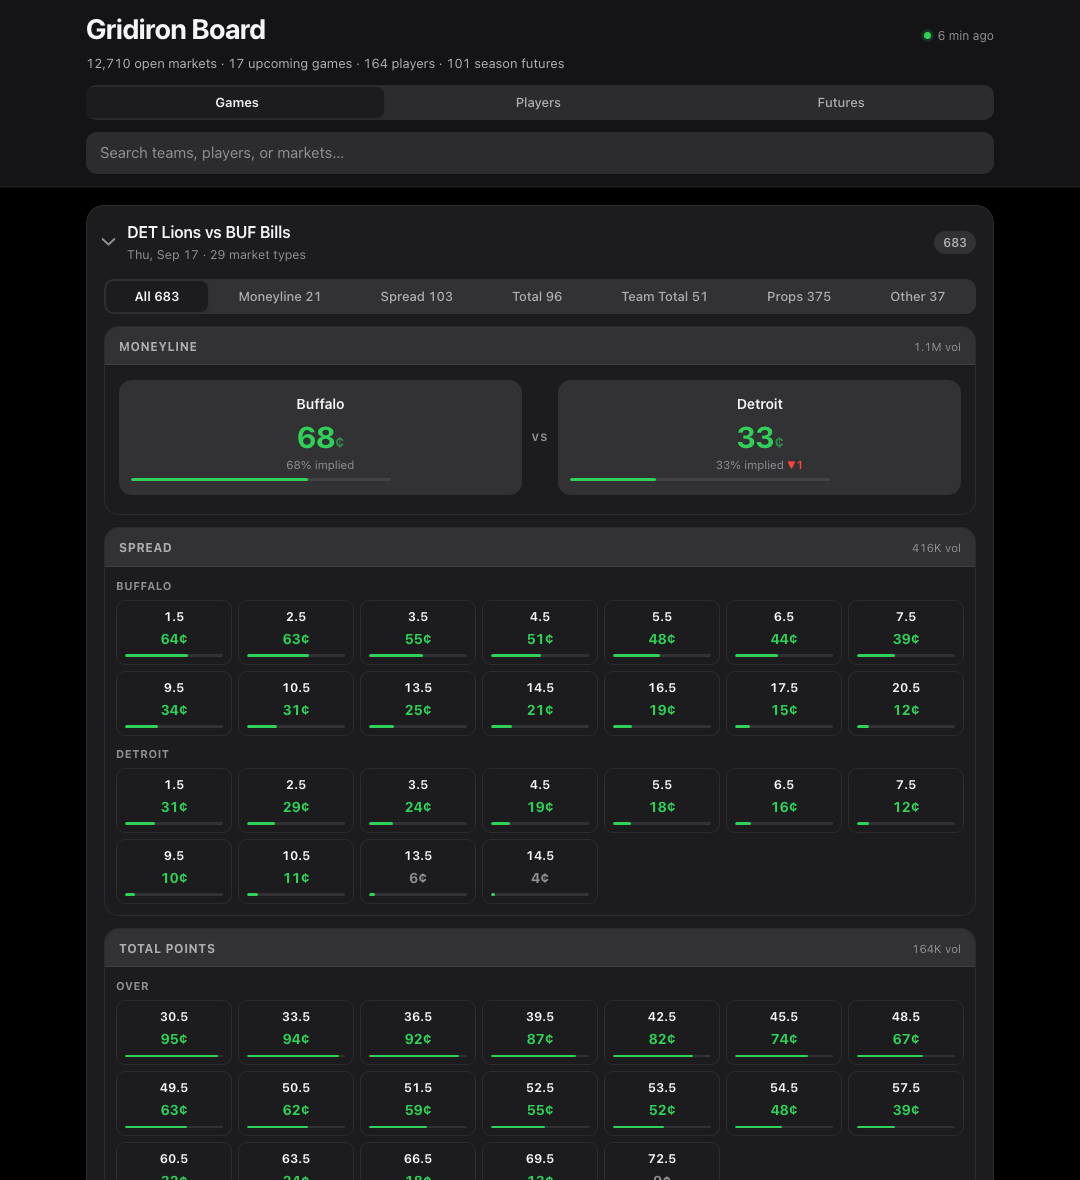
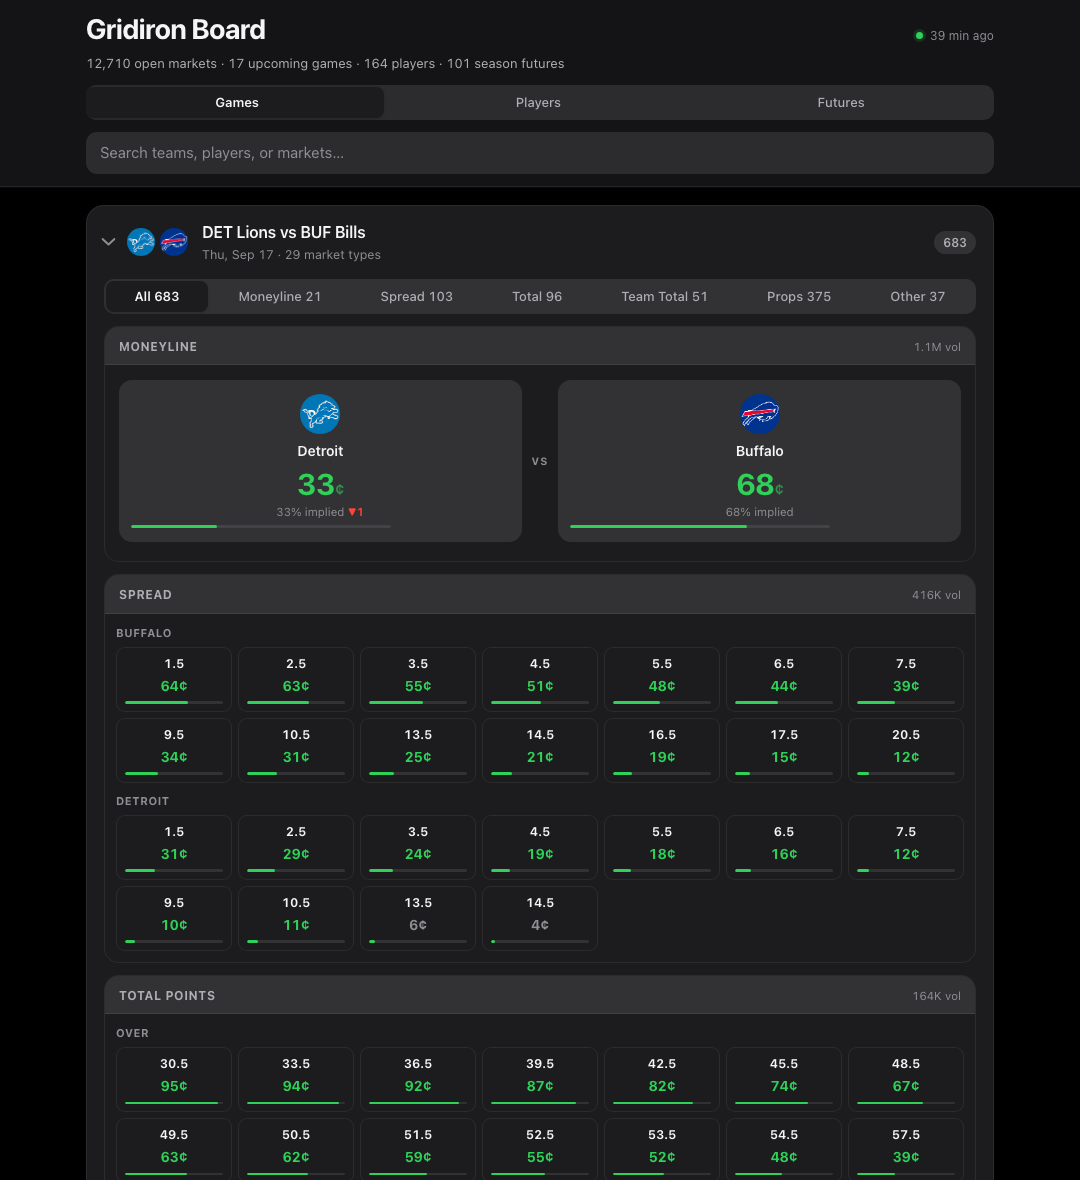
Team crests on matchups, head-to-head boxes and players
A collapsed game row was all text, so telling one matchup from another meant
reading rather than glancing. Every club now shows its crest: both teams on
the matchup row, above each price in the head-to-head box, and beside each
player and prop box.

js/teams.js holds the 32 clubs. Kalshi's codes mostly match ESPN's logo slugs
but not reliably, so the slug is stored per club rather than lowercasing the
code and hoping. It also keeps each club's city and nickname, because
moneyline markets are labelled in prose ("Buffalo", not "BUF") and the crest
has to be resolved from that text.

Every logo has a monogram in the club's primary colour underneath it. If the
CDN is unreachable the monogram is what you see, so a team never renders as a
broken image -- verified by blocking a.espncdn.com and re-rendering.

Two details: the crests sit apart rather than overlapping, since an overlapped
stack reads as "a group" and hides half the away club's mark; and the
head-to-head box now orders the clubs to match the card title instead of by
volume, which had the favourite first and silently disagreeing with the header.

diff --git a/js/app.js b/js/app.js
@@ -113,15 +113,30 @@ function strikeOf(m) {
 
 /* Moneyline: the headline market, so it gets a real head-to-head box
    rather than two rows that look like everything else. */
-function h2hPanel(title, markets) {
+function h2hPanel(title, markets, order) {
   const ranked = [...markets].sort((a, b) => b.volume - a.volume);
-  const pair = ranked.slice(0, 2);
+  let pair = ranked.slice(0, 2);
   const rest = ranked.slice(2);
+
+  // Show the clubs in the same order as the card title and its crests.
+  // Volume order would put the favourite first and silently disagree with
+  // the header, which makes the two read as different matchups.
+  if (order && pair.length === 2) {
+    const position = (m) => {
+      const index = order.indexOf(teamCodeFromLabel(m.label));
+      return index === -1 ? 99 : index;
+    };
+    pair = [...pair].sort((a, b) => position(a) - position(b));
+  }
 
   const side = (m) => {
     const mid = midpoint(m);
+    // Moneyline markets are labelled in prose ("Buffalo"), so the crest is
+    // resolved from the text rather than a code the market does not carry.
+    const code = teamCodeFromLabel(m.label);
     return `
       <div class="h2h-side">
+        ${code ? `<div class="h2h-crest">${teamLogo(code, 40)}</div>` : ''}
         <div class="h2h-team">${escapeHtml(m.label)}</div>
         <div class="h2h-price">${mid === null ? '—' : mid}<small>¢</small></div>
         <div class="h2h-imp">${mid === null ? 'no book' : `${mid}% implied`} ${deltaTag(m)}</div>
@@ -261,8 +276,8 @@ function playerBox(name, markets) {
   return `
     <div class="player-box">
       <div class="player-box-head">
+        ${team ? teamLogo(team, 20) : ''}
         <span class="player-box-name">${escapeHtml(name)}</span>
-        ${team ? `<span class="player-box-team">${escapeHtml(team)}</span>` : ''}
         <span class="player-box-count">${markets.length} markets</span>
       </div>
       ${stats}
@@ -329,11 +344,11 @@ function groupMarkets(markets) {
 }
 
 /* Each bet type is rendered in the shape that suits it. */
-function renderGroup(label, group) {
+function renderGroup(label, group, order) {
   const { betType, segment, rows } = group;
 
   if (betType === 'moneyline' && segment === 'full' && rows.length >= 2) {
-    return h2hPanel(label, rows);
+    return h2hPanel(label, rows, order);
   }
   if (betType === 'spread' || betType === 'total' || betType === 'team_total') {
     return ladderPanel(label, rows);
@@ -364,8 +379,10 @@ function cardBody(id, markets, mode = 'game') {
     body = playerStatPanels(shown);
   } else {
     const props = shown.filter((m) => m.betType === 'prop');
+    const game = state.data.games.find((g) => g.key === id);
+    const order = game && game.away ? [game.away, game.home] : null;
     body = groupMarkets(shown)
-      .map(([label, group]) => renderGroup(label, group))
+      .map(([label, group]) => renderGroup(label, group, order))
       .filter(Boolean)
       .join('');
     if (props.length) body += propsPanel(props);
@@ -398,7 +415,7 @@ function playerStatPanels(markets) {
 /* The collapsible shell every game, player and futures group shares.
    Its body is rendered lazily on open: building 12,000 markets of
    markup up front would cost seconds for content nobody has asked to see. */
-function card(id, title, meta, count, markets) {
+function card(id, title, meta, count, markets, crests = '') {
   const open = state.openCards.has(id);
   return `
     <section class="card ${open ? 'open' : ''}" data-id="${escapeHtml(id)}">
@@ -407,6 +424,7 @@ function card(id, title, meta, count, markets) {
           <path d="M1.5 1L7 7l-5.5 6" stroke="currentColor" stroke-width="2"
                 stroke-linecap="round" stroke-linejoin="round"/>
         </svg>
+        ${crests}
         <span class="matchup">
           <span class="teams">${escapeHtml(title)}</span>
           <span class="meta">${escapeHtml(meta)}</span>
@@ -437,12 +455,16 @@ function viewGames() {
       ? g.markets.filter((m) => matches(m.label) || matches(m.player)
           || matches(g.title) || matches(g.away) || matches(g.home))
       : g.markets;
+    const crests = (g.away && g.home)
+      ? `<span class="crests">${teamLogo(g.away, 28)}${teamLogo(g.home, 28)}</span>`
+      : '';
     return card(
       g.key,
       g.title || `${g.away} vs ${g.home}`,
       `${gameDay(g.date)} · ${new Set(markets.map((m) => m.typeLabel)).size} market types`,
       markets.length,
       markets,
+      crests,
     );
   }).join('');
 }
@@ -476,13 +498,13 @@ function viewPlayers() {
     // The team comes from the market ticker, so it stays correct through
     // trades in a way a hardcoded roster would not.
     const team = p.markets.find((m) => m.team)?.team;
-    const title = team ? `${p.name}  ·  ${team}` : p.name;
     return card(
       `player:${p.name}`,
-      title,
+      p.name,
       `${p.game.title || p.game.key} · ${gameDay(p.game.date)}`,
       p.markets.length,
       p.markets,
+      team ? `<span class="crests">${teamLogo(team, 28)}</span>` : '',
     );
   }).join('');
 }

diff --git a/js/teams.js b/js/teams.js
@@ -1,0 +1,89 @@
+/* ============================================================
+   NFL team identity.
+
+   Kalshi refers to teams by its own short codes ("JAC", "WAS");
+   ESPN's logo CDN mostly agrees but not always, so the slug is
+   stored per team rather than lowercasing the code and hoping.
+
+   `city` and `nick` exist because market labels name teams in
+   prose -- a moneyline market is labelled "Buffalo", not "BUF" --
+   so a logo can still be resolved from the text.
+
+   Colours are each club's primary, used for the monogram shown
+   when a logo does not load.
+   ============================================================ */
+
+const TEAMS = {
+  ARI: { slug: 'ari', city: 'Arizona',      nick: 'Cardinals',  color: '#97233F' },
+  ATL: { slug: 'atl', city: 'Atlanta',      nick: 'Falcons',    color: '#A71930' },
+  BAL: { slug: 'bal', city: 'Baltimore',    nick: 'Ravens',     color: '#241773' },
+  BUF: { slug: 'buf', city: 'Buffalo',      nick: 'Bills',      color: '#00338D' },
+  CAR: { slug: 'car', city: 'Carolina',     nick: 'Panthers',   color: '#0085CA' },
+  CHI: { slug: 'chi', city: 'Chicago',      nick: 'Bears',      color: '#0B162A' },
+  CIN: { slug: 'cin', city: 'Cincinnati',   nick: 'Bengals',    color: '#FB4F14' },
+  CLE: { slug: 'cle', city: 'Cleveland',    nick: 'Browns',     color: '#311D00' },
+  DAL: { slug: 'dal', city: 'Dallas',       nick: 'Cowboys',    color: '#041E42' },
+  DEN: { slug: 'den', city: 'Denver',       nick: 'Broncos',    color: '#FB4F14' },
+  DET: { slug: 'det', city: 'Detroit',      nick: 'Lions',      color: '#0076B6' },
+  GB:  { slug: 'gb',  city: 'Green Bay',    nick: 'Packers',    color: '#203731' },
+  HOU: { slug: 'hou', city: 'Houston',      nick: 'Texans',     color: '#03202F' },
+  IND: { slug: 'ind', city: 'Indianapolis', nick: 'Colts',      color: '#002C5F' },
+  JAC: { slug: 'jac', city: 'Jacksonville', nick: 'Jaguars',    color: '#006778' },
+  KC:  { slug: 'kc',  city: 'Kansas City',  nick: 'Chiefs',     color: '#E31837' },
+  LAC: { slug: 'lac', city: 'Los Angeles',  nick: 'Chargers',   color: '#0080C6' },
+  LAR: { slug: 'lar', city: 'Los Angeles',  nick: 'Rams',       color: '#003594' },
+  LV:  { slug: 'lv',  city: 'Las Vegas',    nick: 'Raiders',    color: '#111111' },
+  MIA: { slug: 'mia', city: 'Miami',        nick: 'Dolphins',   color: '#008E97' },
+  MIN: { slug: 'min', city: 'Minnesota',    nick: 'Vikings',    color: '#4F2683' },
+  NE:  { slug: 'ne',  city: 'New England',  nick: 'Patriots',   color: '#002244' },
+  NO:  { slug: 'no',  city: 'New Orleans',  nick: 'Saints',     color: '#9F8958' },
+  NYG: { slug: 'nyg', city: 'New York',     nick: 'Giants',     color: '#0B2265' },
+  NYJ: { slug: 'nyj', city: 'New York',     nick: 'Jets',       color: '#125740' },
+  PHI: { slug: 'phi', city: 'Philadelphia', nick: 'Eagles',     color: '#004C54' },
+  PIT: { slug: 'pit', city: 'Pittsburgh',   nick: 'Steelers',   color: '#FFB612' },
+  SEA: { slug: 'sea', city: 'Seattle',      nick: 'Seahawks',   color: '#002244' },
+  SF:  { slug: 'sf',  city: 'San Francisco',nick: '49ers',      color: '#AA0000' },
+  TB:  { slug: 'tb',  city: 'Tampa Bay',    nick: 'Buccaneers', color: '#D50A0A' },
+  TEN: { slug: 'ten', city: 'Tennessee',    nick: 'Titans',     color: '#0C2340' },
+  WAS: { slug: 'was', city: 'Washington',   nick: 'Commanders', color: '#5A1414' },
+};
+
+/* Reverse index so prose labels resolve to a code. Both "Buffalo" and
+   "Bills" point at BUF. Los Angeles and New York are deliberately left
+   out as bare cities: they are ambiguous, and the nickname disambiguates. */
+const TEAM_BY_NAME = (() => {
+  const index = new Map();
+  const ambiguousCities = new Set(['Los Angeles', 'New York']);
+  for (const [code, team] of Object.entries(TEAMS)) {
+    index.set(team.nick.toLowerCase(), code);
+    if (!ambiguousCities.has(team.city)) index.set(team.city.toLowerCase(), code);
+  }
+  return index;
+})();
+
+function teamCodeFromLabel(label) {
+  if (!label) return null;
+  const key = String(label).trim().toLowerCase();
+  if (TEAM_BY_NAME.has(key)) return TEAM_BY_NAME.get(key);
+  // Fall back to a contained nickname, so "Buffalo wins 1st Half" still resolves.
+  for (const [name, code] of TEAM_BY_NAME) {
+    if (key.startsWith(`${name} `)) return code;
+  }
+  return null;
+}
+
+/* The logo, with the club's monogram underneath it. If the image loads it
+   covers the monogram; if the CDN is unreachable the monogram is what you
+   see, so a team is never rendered as a broken-image icon. */
+function teamLogo(code, size = 26) {
+  const team = TEAMS[code];
+  if (!team) return '';
+  const label = `${team.city} ${team.nick}`;
+  return `<span class="logo" style="--team:${team.color};--logo-size:${size}px" title="${label}">
+    <span class="logo-mark">${code}</span>
+    <img src="https://a.espncdn.com/i/teamlogos/nfl/500/${team.slug}.png"
+         alt="${label}" loading="lazy" decoding="async"
+         onload="this.previousElementSibling.hidden = true"
+         onerror="this.remove()">
+  </span>`;
+}

diff --git a/css/app.css b/css/app.css
@@ -757,3 +757,60 @@ footer a { color: var(--text-2); }
   letter-spacing: 0.02em;
 }
 .side-name:first-child { margin-top: 0; }
+
+/* ============================================================
+   Team logos
+   The monogram sits underneath the image and is revealed only if
+   the logo fails to load, so a team never renders as a broken
+   image icon.
+   ============================================================ */
+
+.logo {
+  position: relative;
+  display: inline-grid;
+  place-items: center;
+  width: var(--logo-size, 26px);
+  height: var(--logo-size, 26px);
+  flex-shrink: 0;
+}
+
+.logo img,
+.logo-mark {
+  grid-area: 1 / 1;
+  width: 100%;
+  height: 100%;
+}
+
+.logo img { object-fit: contain; }
+
+.logo-mark {
+  display: grid;
+  place-items: center;
+  border-radius: 50%;
+  background: var(--team, var(--fill-strong));
+  color: #fff;
+  font-size: calc(var(--logo-size, 26px) * 0.3);
+  font-weight: 800;
+  letter-spacing: 0.02em;
+}
+
+/* Two crests on a matchup row. They sit apart rather than overlapping:
+   an overlapped stack reads as "a group", which is the wrong idea for two
+   opponents, and it hides half of the away club's crest. */
+.crests {
+  display: flex;
+  align-items: center;
+  gap: 5px;
+  flex-shrink: 0;
+}
+
+/* Full-bleed crest above the team name in the head-to-head box. */
+.h2h-crest { margin-bottom: 7px; }
+
+/* The small crest that replaces the plain text chip on a player card. */
+.player-box-head .logo,
+.card-head .matchup .logo { vertical-align: middle; }
+
+@media (prefers-reduced-transparency: reduce) {
+  .logo img { opacity: 1; }
+}

diff --git a/index.html b/index.html
@@ -45,6 +45,7 @@
   </p>
 </footer>
 
+<script src="js/teams.js"></script>
 <script src="js/app.js"></script>
 </body>
 </html>

diff --git a/README.md b/README.md
@@ -125,6 +125,16 @@ of wrapped sentences into a row you can read across. Player props become one box
 per person, holding that player's ladders for every stat they're priced on.
 Everything else falls back to tiles.
 
+**Team crests** appear on every matchup row, in the head-to-head box, and beside
+each player, so a game is identifiable before you read it. The images are loaded
+from ESPN's public logo CDN (`a.espncdn.com/i/teamlogos/nfl/500/<slug>.png`) —
+Kalshi's team codes mostly match ESPN's slugs but not always, so `js/teams.js`
+stores the slug per club rather than lowercasing the code and hoping. Underneath
+every logo sits a monogram in that club's primary colour; if the CDN is
+unreachable the monogram is what you see, so a team never renders as a broken
+image. (Logos are NFL trademarks, referenced from their origin to identify the
+clubs, not redistributed in this repo.)
+
 ---
 
 ## When things go wrong
@@ -165,6 +175,7 @@ kalshi_api.py   HTTP client — pagination, retries, offline vs. server errors
 classify.py     game keys, bet types, periods, player-name extraction
 index.html      page shell
 css/app.css     design tokens + layout
+js/teams.js     team codes, crests, colours, name lookup
 js/app.js       rendering, filtering, search
 data/snapshot.json   generated — commit it so the site works without Python
 ```
